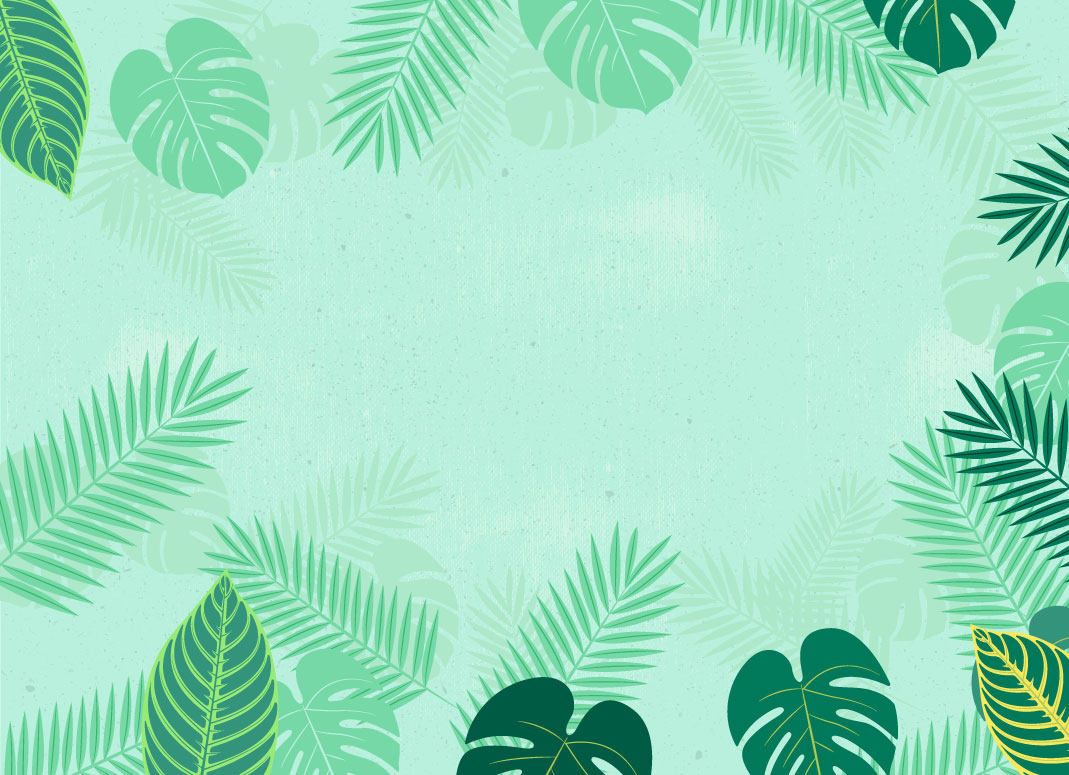
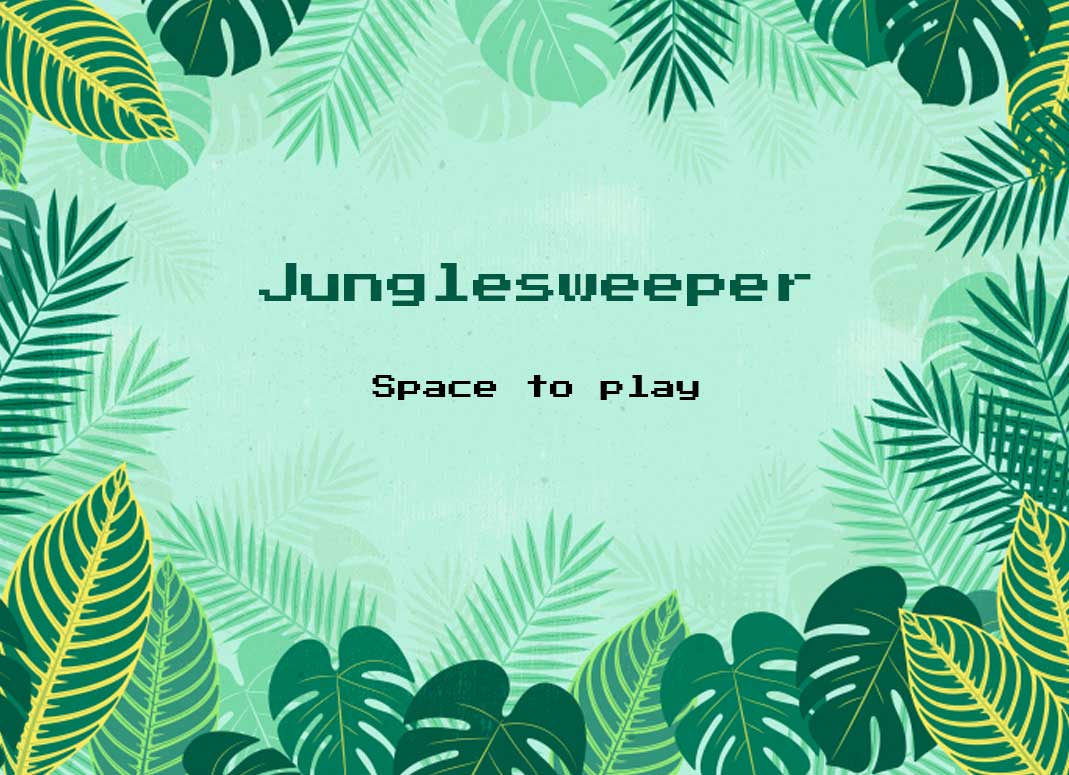
Add first image background

diff --git a/src/junglesweeper/Game.java b/src/junglesweeper/Game.java
@@ -79,9 +79,10 @@ public class Game {
                 Thread.sleep(DELAY);
             } catch (InterruptedException e) {
                 e.printStackTrace();
+
             }
         }
-
+        display.setBackground("./assets/Game/FinalBG2.jpg");
     }
 
     public void start() throws InterruptedException {

diff --git a/src/junglesweeper/simplegfx/grid/SimpleGfxDisplay.java b/src/junglesweeper/simplegfx/grid/SimpleGfxDisplay.java
@@ -29,6 +29,7 @@ public class SimpleGfxDisplay implements Display {
 
     }
 
+
     public void setBackground(String string) {
         background.load(string);
     }
